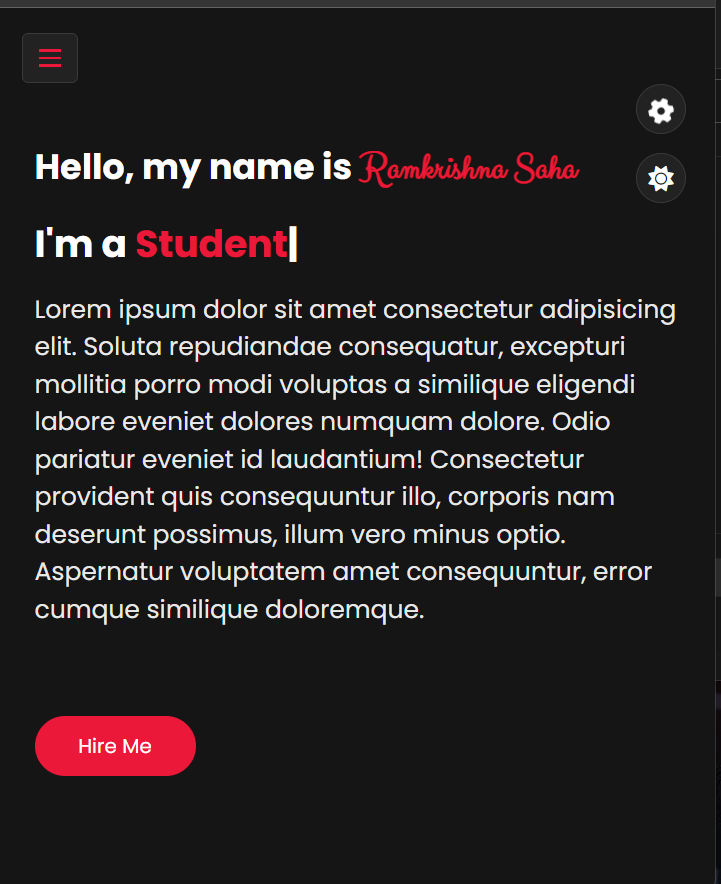
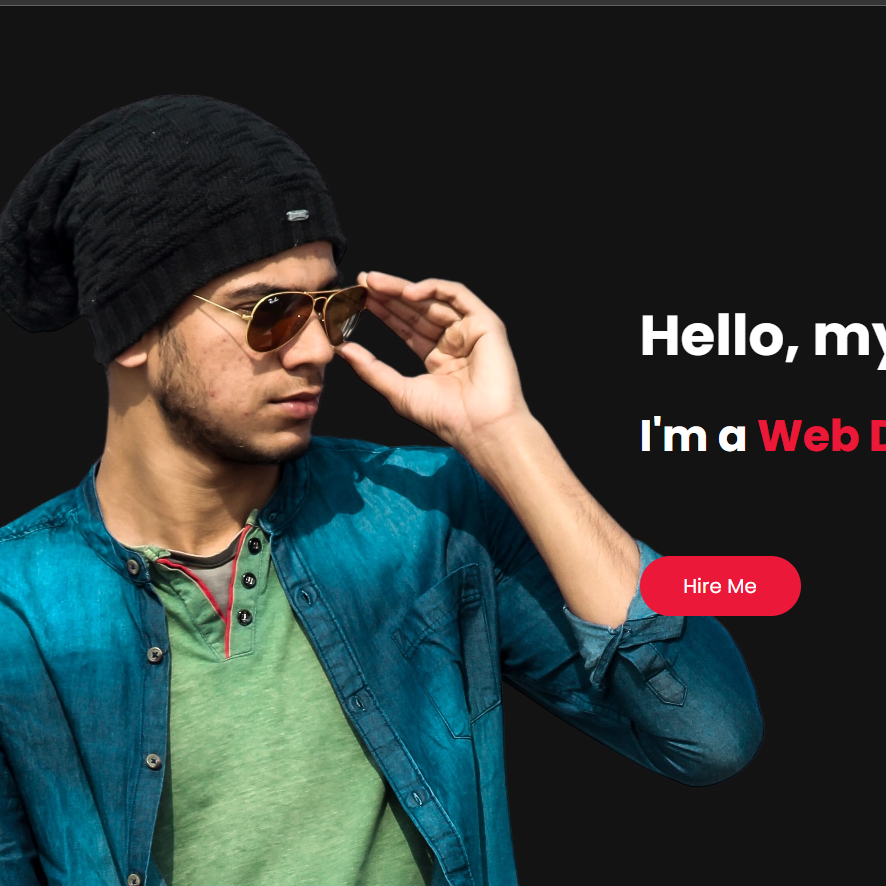
commit for portfolio website

diff --git a/index.html b/index.html
@@ -43,17 +43,18 @@
           <!-- main content start -->
         <div class="main-content">
              <!-- home section start -->
-            <section class="home active section" id="home">
+            <section class="home section active" id="home">
                 <div class="container">
                     <div class="row">
-                        <div class="home-info padd-15">
-                            <h3 class="hello">Hello, myself  <span> Ramkrishna Saha</span></h3>
-                            <h3 class="my-profession">I'm a <span class="typing">Web Developer</span></h3>
-                            <p>I am an Engineering student who loves building things from scratch has a hunger for learning, exploring the different aspects of technical field, interested in Full Stack Web Development.Always ready for new opportunities and new experiences.Believe in honesty.Always Trying to please the people around us.Love to play cricket in my free time</p>
-                            <a href="#contact" class="btn hire-me" data-section-index="1">Hire Me</a>
-                        </div>
+                       
                         <div class="home-img padd-15">
-                            <img src="img/Founder-light.png" alt="" id="founder-img">
+                            <!-- <img src="img/Founder-dark.png" alt="" id="founder-img"> -->
+                        </div>
+                        <div class="home-info padd-15">
+                            <h3 class="hello">Hello, myself  <span> Ramkrishna</span></h3>
+                            <h3 class="my-profession">I'm a <span class="typing">Web Developer</span></h3>
+                            <p></p>
+                            <a href="#contact" class="btn hire-me" data-section-index="1">Hire Me</a>
                         </div>
                     </div>
                 </div>
@@ -207,12 +208,11 @@
                                           </div>
                                       </div>
                                   </div>
-                                  <div class="experience padd-15">
+                                  <!-- <div class="experience padd-15">
                                       <h3 class="title">Experience:</h3>
                                       <div class="row">
                                         <div class="timeline-box">
                                             <div class="timeline shadow-dark">
-                                                <!-- timeline item -->
                                                 <div class="timeline-item">
                                                     <div class="circle-dot"></div>
                                                         <h3 class="timeline-date">
@@ -222,7 +222,6 @@
                                                         <h4 class="timeline-title">Btech in CSE</h4>
                                                         <p class="timeline-text">Lorem ipsum dolor sit amet consectetur adipisicing elit. Ea suscipit iste dolorem recusandae neque. Similique numquam tempore eveniet cupiditate dolorum sunt repellendus, accusamus beatae repudiandae!</p>
                                                 </div>
-                                                <!-- timeline item -->
                                                 <div class="timeline-item">
                                                     <div class="circle-dot"> </div>
                                                         <h3 class="timeline-date">
@@ -232,7 +231,6 @@
                                                         <h4 class="timeline-title">Btech in CSE</h4>
                                                         <p class="timeline-text">Lorem ipsum dolor sit amet consectetur adipisicing elit. Ea suscipit iste dolorem recusandae neque. Similique numquam tempore eveniet cupiditate dolorum sunt repellendus, accusamus beatae repudiandae!</p>
                                                 </div>
-                                                <!-- timeline item -->
                                                 <div class="timeline-item">
                                                     <div class="circle-dot"> </div>
                                                         <h3 class="timeline-date">
@@ -245,7 +243,7 @@
                                             </div>
                                         </div>
                                     </div>
-                                  </div>
+                                  </div> -->
                               </div>
                           </div>
                       </div>
@@ -275,7 +273,7 @@
                                     <div class="layer">
                                         <h3>Portfolio</h3>
                                         <p>This is my portfolio website.I made this using HTML,CSS and JAVASCRIPT.In this website You wil get to know all the information about myself and also can contact with me.</p>
-                                        <a href="#" target=”_blank”><i class='fas fa-external-link-alt' style='font-size:24px'></i></a>
+                                        <a href="" target=”_blank”><i class='fas fa-external-link-alt' style='font-size:24px'></i></a>
                                     </div>
                                 </div>
                             </div>
@@ -285,12 +283,11 @@
                         <div class="portfolio-item padd-15">
                             <div class="portfolio-item-inner shadow-dark">
                                 <div class="Projects">
-                                    <img src="img/project-2.png" alt="">
+                                    <img src="img/project-5.png" alt="">
                                     <div class="layer">
-                                        <h3>Incredible India</h3>
-                                        <p>Incredible India is a webpage describing India and its heritage, tourist places, diversity, religious culture,etc
-                                            </p>
-                                        <a href="https://ramkrishna07.github.io/IndiaIncredible/" target=”_blank”><i class='fas fa-external-link-alt' style='font-size:24px'></i></a>
+                                        <h3>Live Weather</h3>
+                                        <p>Live Weather is an website in which users can check live weather of their city,also can check additional details related to weather . I have used OpenWeather API for this</p>
+                                        <a href="https://liveweather7.herokuapp.com/" target=”_blank”><i class='fas fa-external-link-alt' style='font-size:24px'></i></a>
                                     </div>
                                 </div>
                             </div>
@@ -328,11 +325,13 @@
                         <div class="portfolio-item padd-15">
                             <div class="portfolio-item-inner shadow-dark">
                                 <div class="Projects">
-                                    <img src="img/project-5.png" alt="">
+                                    <img src="img/project-2.png" alt="">
                                     <div class="layer">
-                                        <h3>Netflix-clone</h3>
-                                        <p>Simple landing webpage clone of netflix.I made this using HTML,CSS and JAVASCRIPT</p>
-                                        <a href="https://ramkrishna07.github.io/Netflix-clone/" target=”_blank”><i class='fas fa-external-link-alt' style='font-size:24px'></i></a>
+                                        <h3>Incredible India</h3>
+                                        <p>Incredible India is a webpage describing India and its heritage, tourist places, diversity, religious culture,etc
+                                            </p>
+                                      
+                                        <a href="https://ramkrishna07.github.io/IndiaIncredible/" target=”_blank”><i class='fas fa-external-link-alt' style='font-size:24px'></i></a>
                                     </div>
                                 </div>
                             </div>
@@ -342,11 +341,11 @@
                         <div class="portfolio-item padd-15">
                             <div class="portfolio-item-inner shadow-dark">
                                 <div class="Projects">
-                                    <img src="img/project-1.png" alt="">
+                                    <img src="img/project-6.png" alt="">
                                     <div class="layer">
-                                        <h3>Portfolio</h3>
-                                        <p>This is my portfolio website.I made this using HTML,CSS and JAVASCRIPT.In this website You wil get to know all the information about myself and also can contact with me.</p>
-                                        <a href="#" target=”_blank”><i class='fas fa-external-link-alt' style='font-size:24px'></i></a>
+                                        <h3>Netflix-clone</h3>
+                                        <p>Simple landing webpage clone of netflix.I made this using HTML,CSS and JAVASCRIPT</p>
+                                        <a href="https://ramkrishna07.github.io/Netflix-clone/" target=”_blank”><i class='fas fa-external-link-alt' style='font-size:24px'></i></a>
                                     </div>
                                 </div>
                             </div>
@@ -469,9 +468,9 @@
              <div class="style-switcher-toggler s-icon">
                  <i class="fas fa-cog fa-spin"></i>
              </div>
-             <div class="day-night s-icon">
+             <!-- <div class="day-night s-icon">
                  <i class="fas "></i>
-             </div>
+             </div> -->
              <h4>Theme Colors</h4>
              <div class="colors">
                  <span class="color-1" onclick="setActiveStyle('color-1')"></span>

diff --git a/css/style.css b/css/style.css
@@ -273,21 +273,28 @@ ul{
     display: flex;
     color: var(--text-black-900);
 }
+#home{
+    background-image: url(img/founder-back.jpg);
+    background-repeat: no-repeat;
+    background-size: 60rem auto;
+}
 .home .home-info{
     flex: 0 0 60%;
     max-width: 60%;
+    padding-left: 10rem;
 }
 h3.hello{
-    font-size: 28px;
+    font-size: 45px;
     margin: 15px 0;
 }
 h3.hello span{
     font-family: 'Clicker Script',cursive;
-    font-size: 30px;
+    font-size: 47px;
     font-weight: 700;
     color: var(--skin-color);
-}h3.my-profession{
-    font-size: 30px;
+}
+h3.my-profession{
+    font-size: 35px;
     margin: 15px 0;
 }
 .typing{
@@ -298,18 +305,23 @@ h3.hello span{
     font-size: 20px;
     color: var(--text-black-700);
 }
+/* .home-info .hire-me{
+    float: middle;
+} */
 .home .home-img{
     flex: 0 0 40%;
     max-width: 40%;
     text-align: center;
-    position: relative;
-    
+    position: relative; 
 }
 .home .home-img img{
-    height: 450px;
-    margin: auto;
-    border-radius: 5px;
+    /* height: 450px;
+    margin: auto; */
+    /* border-radius: 5px; */
     position: relative;
+    box-shadow: (0 0.5rem 1rem rgba(0,0,0,0.3));
+    border-radius: 2rem;
+    width: 30rem;
 }
 /* About */
 .about .about-content{
@@ -410,10 +422,10 @@ h3.hello span{
     font-weight: 400;
     line-height: 40px;
 }
-.about .about-content .education,
-.about .about-content .experience{
-    flex: 0 0 50%;
-    max-width: 50%;
+.about .about-content .education{
+/* .about .about-content .experience{ */
+    flex: 0 0 100%;
+    max-width: 100%;
     margin-top: 30px;
 }
 .about .about-content h3.title{
@@ -515,6 +527,7 @@ h3.hello span{
     display: block;
     transition: 0.5s;
     height: 400px;
+    opacity: 0.8;
 }
 .Projects{
     position: relative;
@@ -736,12 +749,18 @@ footer .copyright-text{
     }
 }
 @media (max-width:900px){
+    
     .home .home-img img{
         /* top: 20%; */
         right: 20%;
         height: 400px;
     }
 }
+/* @media (max-width:817px){
+    .home .home-info{
+        padding-left: 15px;
+    } 
+} */
 @media (max-width:767px){
     .home .home-info,
     .home-img,
@@ -754,6 +773,9 @@ footer .copyright-text{
     .contact .contact-form .col-6{
         flex: 0 0 100%;
         max-width: 100%;
+    }
+    .home .home-info{
+        padding-left: 15px;
     }
     .home-img{
         margin: auto;
@@ -776,14 +798,25 @@ footer .copyright-text{
  @media (max-width:600px){
     .home .home-img img{
         right: 130px;
+        bottom: 50px;
+    }
+    .home .home-info p{
+        display: none;
+    }
+    #home{
+        background-size: 50rem auto;
     }
 }
 @media (max-width:500px){
+   
     .home .home-img img{
         right: 150px;
     }
 }
 @media (max-width:420px){
+    #home{
+        background-size: 40rem auto;
+    }
     .home .home-img img{
         height: 450px;
     }

diff --git a/js/style-switcher.js b/js/style-switcher.js
@@ -25,42 +25,42 @@ function setActiveStyle(color){
 
 // light and dark mode 
 // default mode is dark mode
-const dayNight = document.querySelector(".day-night");
-var image = document.querySelector('#founder-img');
-dayNight.addEventListener("click", () =>{
+// const dayNight = document.querySelector(".day-night");
+// var image = document.querySelector('#founder-img');
+// dayNight.addEventListener("click", () =>{
    
-    dayNight.querySelector("i").classList.toggle("fa-sun");
-    dayNight.querySelector("i").classList.toggle("fa-moon");
-    document.body.classList.toggle("light");
-    /* preventing dark mode toggle on refreshing start*/
-    var SetTheme=document.body;
-    var theme;
-    if(SetTheme.classList.contains("light")){
-        theme="LIGHT";
-        image.src = "img/Founder-light.png";
+//     dayNight.querySelector("i").classList.toggle("fa-sun");
+//     dayNight.querySelector("i").classList.toggle("fa-moon");
+//     document.body.classList.toggle("light");
+//     /* preventing dark mode toggle on refreshing start*/
+//     var SetTheme=document.body;
+//     var theme;
+//     if(SetTheme.classList.contains("light")){
+//         theme="LIGHT";
+//         image.src = "img/Founder-light.png";
         
-    }else{
-        theme="DARK";
-        image.src = "img/Founder-dark.png";
-    }
-    localStorage.setItem("PageTheme",JSON.stringify(theme));
-})
+//     }else{
+//         theme="DARK";
+//         image.src = "img/Founder-dark.png";
+//     }
+//     localStorage.setItem("PageTheme",JSON.stringify(theme));
+// })
 
-let GetTheme=JSON.parse(localStorage.getItem("PageTheme"));
+// let GetTheme=JSON.parse(localStorage.getItem("PageTheme"));
 
-if(GetTheme==="LIGHT"){
-    document.body.classList="light";
-}
+// if(GetTheme==="LIGHT"){
+//     document.body.classList="light";
+// }
 
  /* preventing dark mode toggle on refreshing end*/
-window.addEventListener("load", () =>{
-    if(document.body.classList.contains("light")){
-        dayNight.querySelector("i").classList.add("fa-moon");
-        image.src = "img/Founder-light.png";
+// window.addEventListener("load", () =>{
+//     if(document.body.classList.contains("light")){
+//         dayNight.querySelector("i").classList.add("fa-moon");
+//         image.src = "img/Founder-light.png";
       
-    }
-    else{
-        dayNight.querySelector("i").classList.add("fa-sun");
-        image.src = "img/Founder-dark.png";
-    }
-})
+//     }
+//     else{
+//         dayNight.querySelector("i").classList.add("fa-sun");
+//         image.src = "img/Founder-dark.png";
+//     }
+// })
